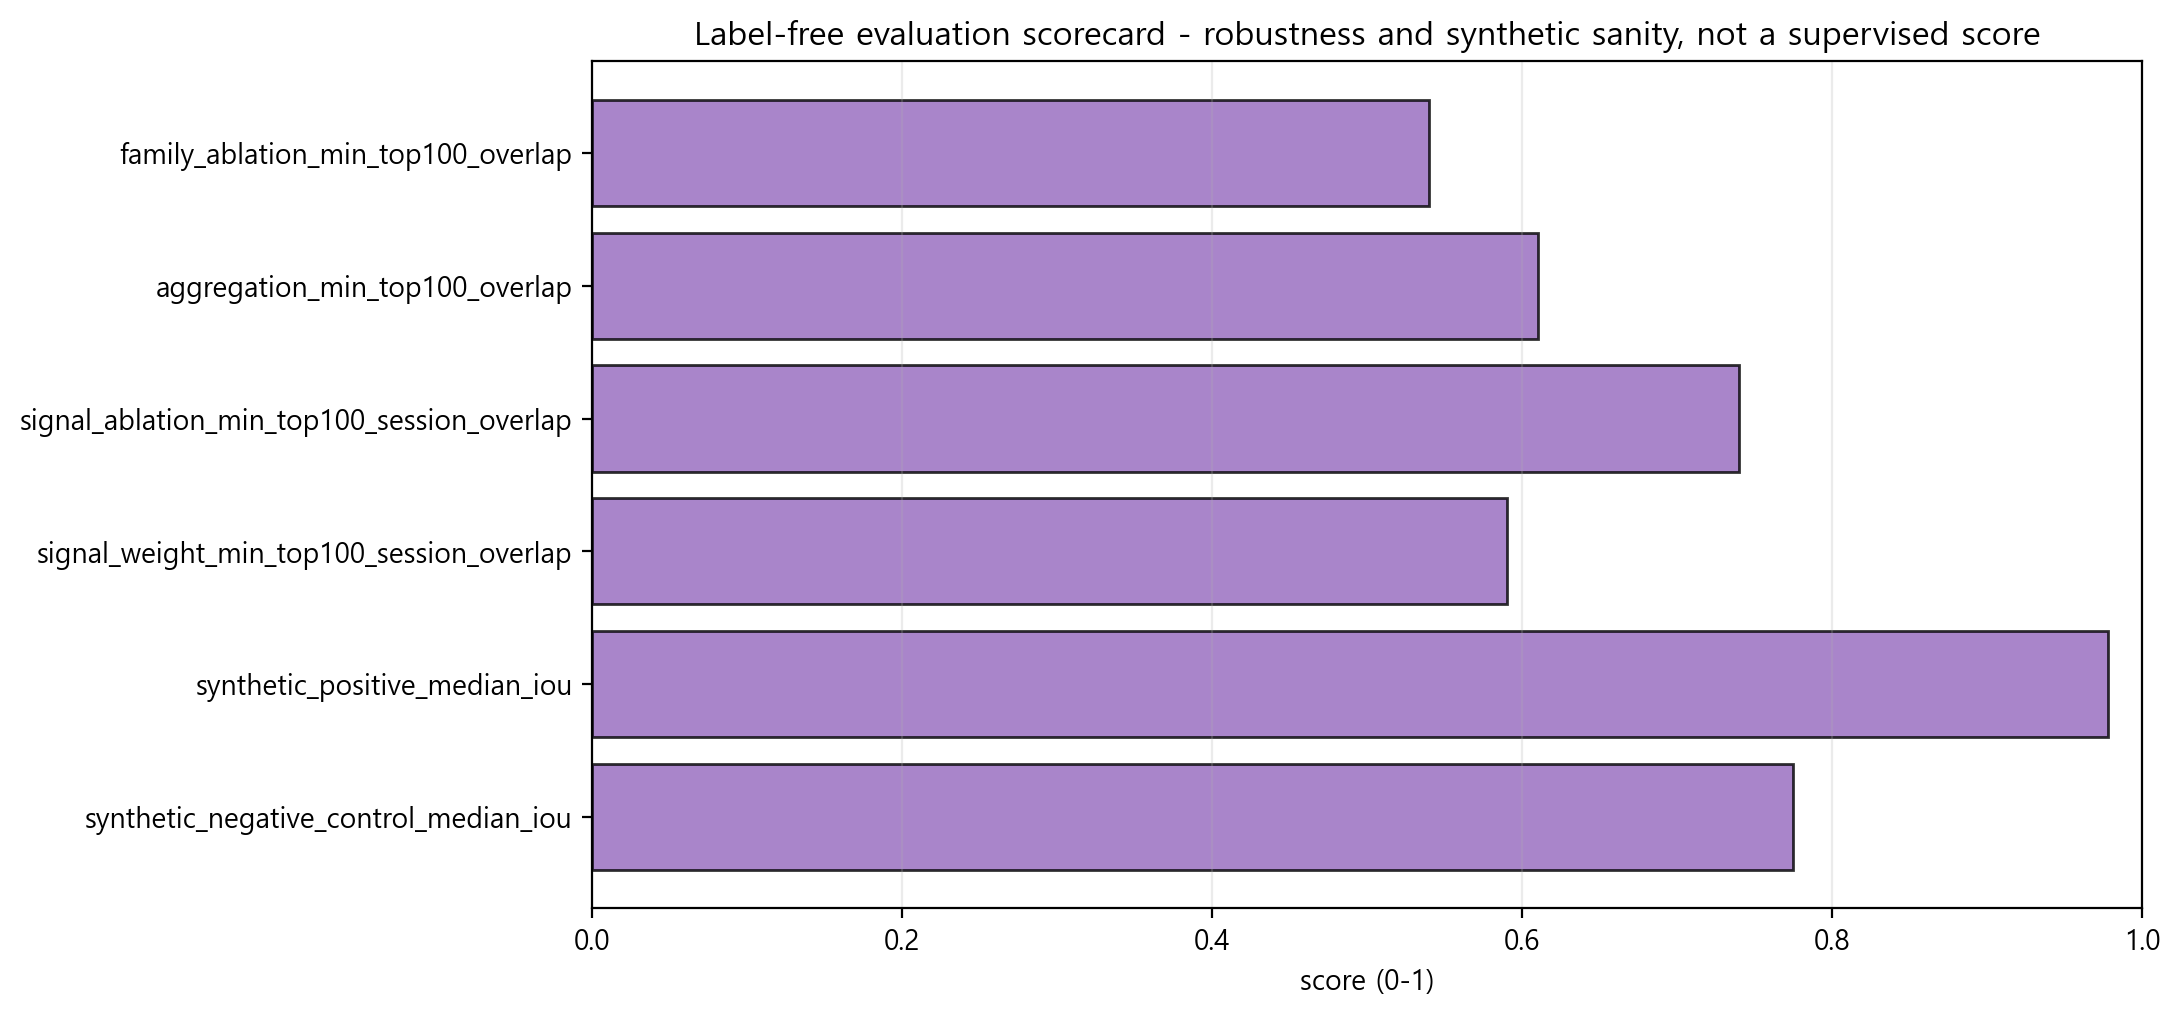
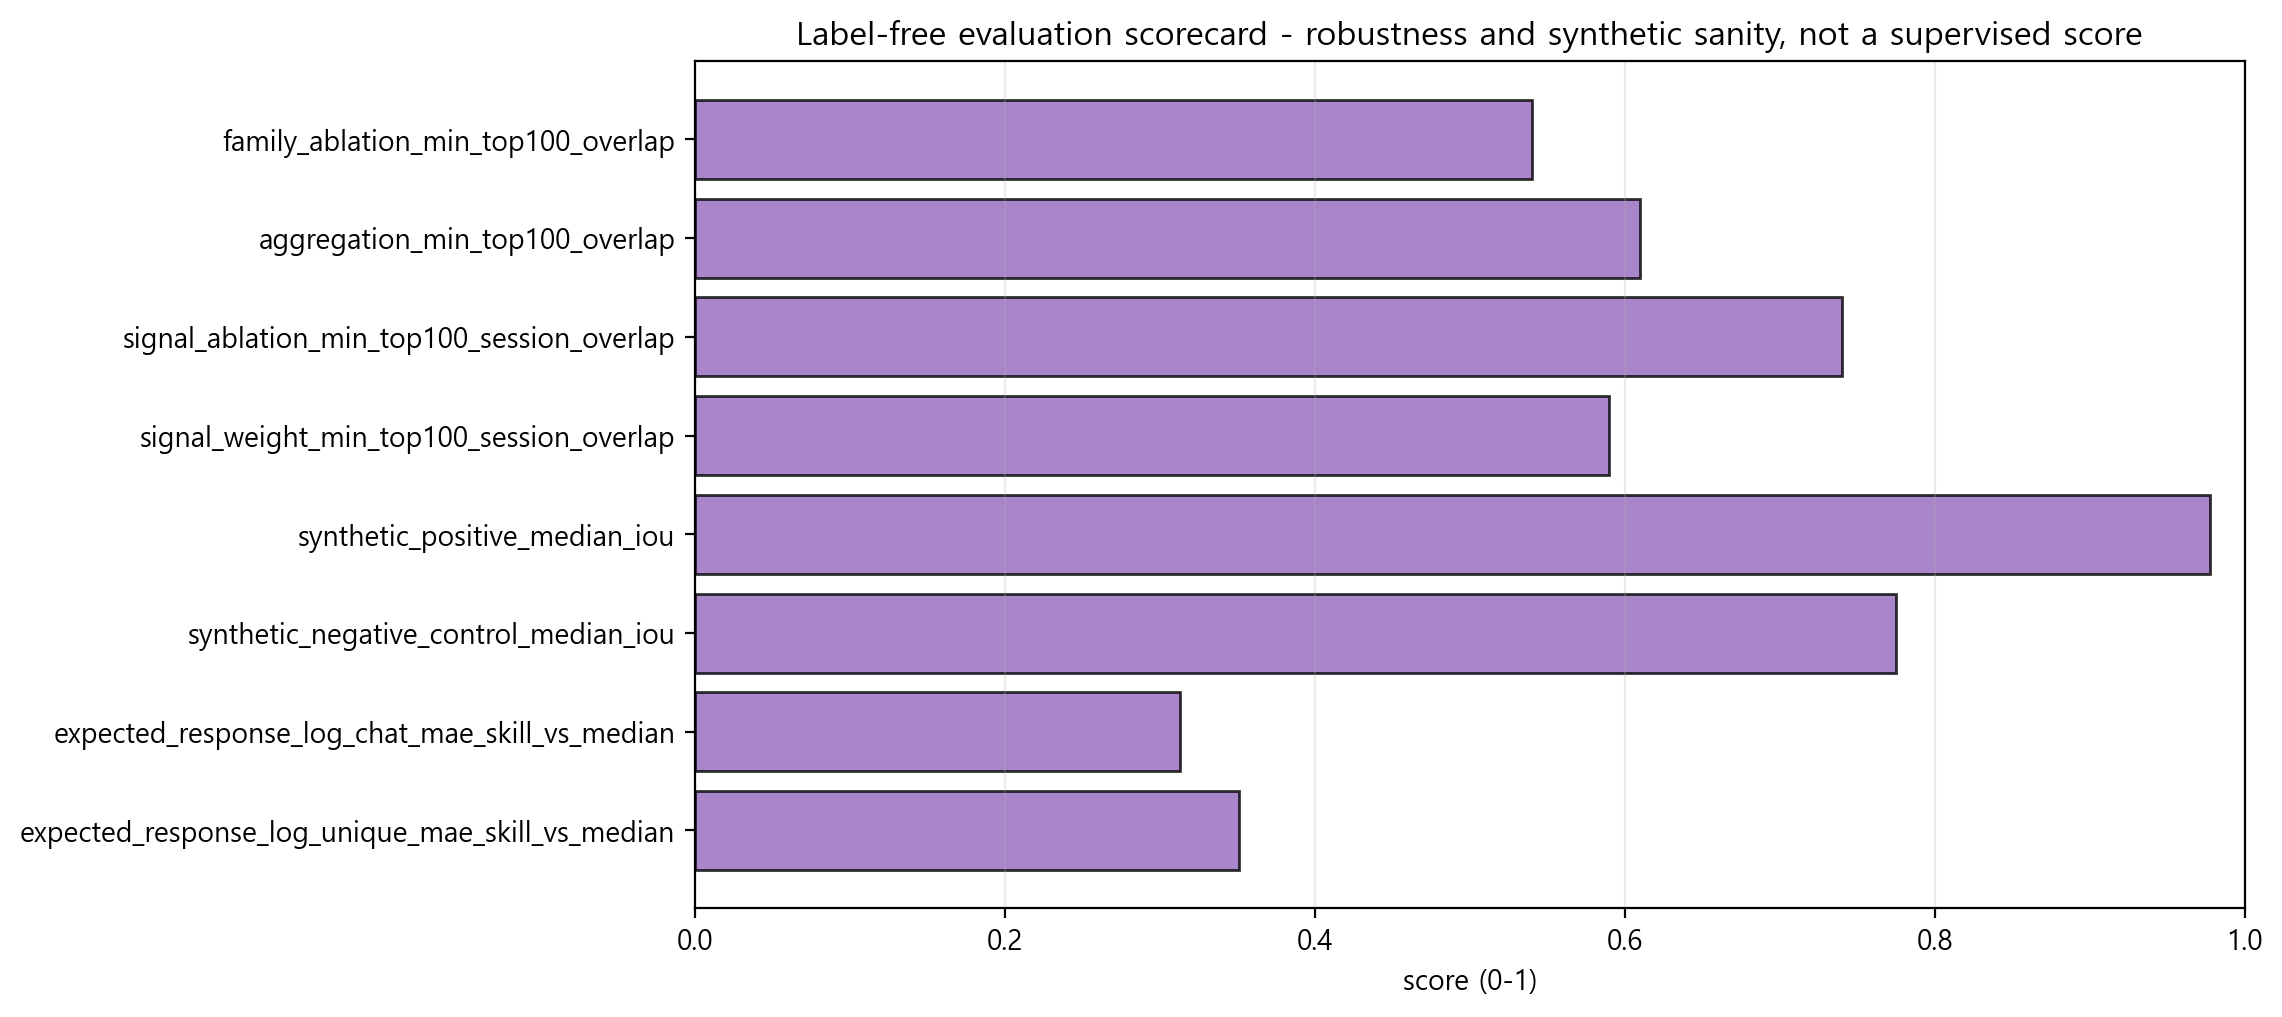
revised

diff --git a/dm_pipe_final/src/plots.py b/dm_pipe_final/src/plots.py
@@ -603,6 +603,57 @@ def _plot_pipe(plots):
     _save(fig, plots / "13_m2_pipe.png")
 
 
+def _plot_mc_selection(out, plots):
+    mc = _read(out, "mc_select.csv")
+    if mc.empty or "algorithm" not in mc.columns or "selection_score" not in mc.columns:
+        _blank(plots / "09_mc_selection.png", "mc_select.csv not available\nminute behavior-state model selection")
+        return
+    km = mc[mc["algorithm"].astype(str).str.lower().eq("kmeans")].copy()
+    km["k"] = pd.to_numeric(km["selected_k_num"], errors="coerce")
+    km = km.dropna(subset=["k"]).sort_values("k")
+    if km.empty:
+        _blank(plots / "09_mc_selection.png", "no KMeans candidates in mc_select.csv")
+        return
+    fig, ax = plt.subplots(figsize=(8.5, 4.5))
+    ax.plot(km["k"], pd.to_numeric(km["selection_score"], errors="coerce"), "-o", color="#4C78A8", label="selection_score (composite)")
+    ax.plot(km["k"], pd.to_numeric(km["silhouette"], errors="coerce"), "-s", color="#F58518", label="silhouette")
+    sel = km[km["selected"].astype(str).str.lower().isin(["true", "1"])]
+    if not sel.empty:
+        ksel = int(sel["k"].iloc[0])
+        ax.axvline(ksel, color="green", ls="--", alpha=0.7, label=f"selected KMeans k={ksel}")
+    ax.set_xlabel("minute KMeans k")
+    ax.set_ylabel("score")
+    ax.set_ylim(0, 1)
+    ax.set_title("09 Minute behavior-state model selection (KMeans)\nGMM/HDBSCAN are structural diagnostics, not label sources")
+    ax.legend(fontsize=8)
+    ax.grid(alpha=0.25)
+    _save(fig, plots / "09_mc_selection.png")
+
+
+def _plot_base_importance(out, plots):
+    imp = _read(out, "base_importance.csv")
+    if imp.empty or "target" not in imp.columns:
+        _blank(plots / "14_base_importance.png", "base_importance.csv not available\nexpected-response feature importance")
+        return
+    fig, axes = plt.subplots(1, 2, figsize=(11, 4.2), sharex=True)
+    for ax, tgt in zip(axes, ["log_chat", "log_unique"]):
+        d = imp[imp["target"].astype(str).eq(tgt)].copy()
+        d = d.sort_values("importance_mae_increase")
+        ax.barh(
+            d["feature"].astype(str),
+            pd.to_numeric(d["importance_mae_increase"], errors="coerce"),
+            xerr=pd.to_numeric(d.get("importance_std"), errors="coerce"),
+            color="#4C78A8",
+            edgecolor="black",
+            alpha=0.85,
+        )
+        ax.set_title(f"{tgt} OOF permutation importance")
+        ax.set_xlabel("MAE increase (log space)")
+        ax.grid(axis="x", alpha=0.25)
+    fig.suptitle("14 Expected-response baseline feature importance (review evidence, not probability)", fontsize=13)
+    _save(fig, plots / "14_base_importance.png")
+
+
 def _write_plot_doc(out):
     plots = Path(out) / "plots"
     session = _read(out, "session_summary_processed.csv")
@@ -617,6 +668,8 @@ def _write_plot_doc(out):
         "07_session_cluster_stability.png": "filename retained for backward compatibility; content is minute KMeans behavior-state stability diagnostic from mc_stab.csv ARI/subsample; supervised 성능지표 아님; 정답 라벨/확률 아님",
         "07_ms.png": "Method 2 rule-rank score 분포; 정답 라벨/확률 아님",
         "08_mc.png": "minute KMeans behavior state profile; colorbar is within-feature scaled profile value, not cluster id; 정답 라벨/확률 아님",
+        "09_mc_selection.png": "minute 행동상태 KMeans 모델선택 비교(selection_score/silhouette); GMM/HDBSCAN은 구조 진단용이며 label source 아님; 정답 라벨/확률 아님",
+        "14_base_importance.png": "expected-response GBM의 OOF permutation 변수중요도(log space MAE 증가분); 검토 근거이며 확률 아님",
         "08_cluster_minute.png": "alias/duplicate of 08_mc.png for handoff compatibility; colorbar is within-feature scaled profile value, not cluster id; 정답 라벨/확률 아님",
         "13_m2_pipe.png": "Method 2 pipeline 개요; 정답 라벨/확률 아님",
         "15_null.png": "shuffled null diagnostic; 정답 라벨/확률 아님",
@@ -778,8 +831,10 @@ def make_plots(minute_all, minute_model, session_all, session_model, out):
     _plot_session_cluster_stability(out, plots)
     _plot_ms(out, plots)
     _plot_mc(out, plots)
+    _plot_mc_selection(out, plots)
     _plot_sens(out, plots)
     _plot_ep(out, plots)
     _plot_rank(out, plots)
     _plot_pipe(plots)
+    _plot_base_importance(out, plots)
     _write_plot_doc(out)

diff --git a/dm_pipe_final/src/m2_baseline.py b/dm_pipe_final/src/m2_baseline.py
@@ -29,6 +29,16 @@ IMPORTANCE_COLS = [
     "note",
 ]
 
+BASE_FIT_COLS = [
+    "target",
+    "n",
+    "oof_mae",
+    "oof_pinball_q50",
+    "mae_global_median_baseline",
+    "mae_skill_vs_median",
+    "note",
+]
+
 
 def _write_csv(df, path, columns=None):
     path = Path(path)
@@ -154,6 +164,34 @@ def _agreement(model_deficit, bin_deficit):
     return (model.gt(0) & rule.gt(0)).astype(int)
 
 
+def _fit_metrics(actual, pred, target):
+    """Held-out OOF fit of the conditional median baseline vs an unconditional
+    global-median baseline, so accuracy-free quality is still quantified."""
+    a = pd.to_numeric(actual, errors="coerce")
+    p = pd.to_numeric(pred, errors="coerce")
+    mask = a.notna() & p.notna()
+    a, p = a[mask], p[mask]
+    n = int(len(a))
+    if n == 0:
+        return {"target": target, "n": 0, "oof_mae": np.nan, "oof_pinball_q50": np.nan,
+                "mae_global_median_baseline": np.nan, "mae_skill_vs_median": np.nan,
+                "note": "no rows with both actual and prediction"}
+    err = (a - p).abs()
+    mae = float(err.mean())
+    median = float(a.median())
+    mae_median = float((a - median).abs().mean())
+    skill = float(1.0 - mae / mae_median) if mae_median > 0 else np.nan
+    return {
+        "target": target,
+        "n": n,
+        "oof_mae": mae,
+        "oof_pinball_q50": float(0.5 * mae),
+        "mae_global_median_baseline": mae_median,
+        "mae_skill_vs_median": skill,
+        "note": "held-out OOF error in log space; skill = error reduction vs unconditional global median; not a classifier",
+    }
+
+
 def _feature_groups(columns):
     """Group one-hot category dummies into a single 'category' feature for readable importance."""
     groups = {}
@@ -243,6 +281,12 @@ def build_expected_response(minute_df, out, cfg=None):
     result["baseline_agree_chat"] = _agreement(result["model_chat_deficit"], result.get("chat_deficit"))
     result["baseline_agree_unique"] = _agreement(result["model_unique_deficit"], result.get("unique_deficit"))
 
+    fit = pd.DataFrame([
+        _fit_metrics(actual_chat, result["base_log_chat_q50"], "log_chat"),
+        _fit_metrics(actual_unique, result["base_log_unique_q50"], "log_unique"),
+    ])
+    _write_csv(fit, out / "base_fit.csv", BASE_FIT_COLS)
+
     importance_note = "importance는 비활성화되어 계산하지 않았다."
     base_cfg = (cfg or {}).get("m2_expected_response", {})
     if bool(base_cfg.get("importance", True)):
@@ -264,6 +308,7 @@ def build_expected_response(minute_df, out, cfg=None):
         f"unique fit: {unique_note}.",
         f"사용 feature: {', '.join(x.columns[:80])}" + (" ..." if len(x.columns) > 80 else ""),
         "출력: base_log_chat_q50, base_log_unique_q50, model_chat_deficit, model_unique_deficit.",
+        "base_fit.csv: held-out OOF MAE/pinball(q0.5)와 무조건부 global median 대비 skill을 기록한다. 라벨 없는 적합도 정량값이다.",
         importance_note,
         "한계: 실제 정답 라벨이 없는 baseline이다. deficit은 수동 검토 근거이며 확률이 아니다.",
     ]

diff --git a/dm_pipe_final/src/eval_robustness.py b/dm_pipe_final/src/eval_robustness.py
@@ -1418,6 +1418,7 @@ def write_eval_scorecard(out, eval_dir, cfg):
     weights = _read_csv(eval_dir / "minute_signal" / "signal_weight_sensitivity_summary.csv")
     scenario = _read_csv(eval_dir / "synthetic" / "synthetic_recovery_by_scenario.csv")
     importance = _read_csv(out / "base_importance.csv")
+    fit = _read_csv(out / "base_fit.csv")
 
     def _min(df, col):
         return float(pd.to_numeric(df.get(col), errors="coerce").min()) if not df.empty else np.nan
@@ -1438,6 +1439,12 @@ def write_eval_scorecard(out, eval_dir, cfg):
         neg_iou = float(pd.to_numeric(control.get("median_iou"), errors="coerce").median()) if not control.empty else np.nan
     rows.append({"metric": "synthetic_positive_median_iou", "value": pos_iou, "scale": "0-1 higher localizes injected interval", "what_it_checks": "주입한 연속 mismatch 구간을 회수하는가", "note": NOTE_NOT_REAL})
     rows.append({"metric": "synthetic_negative_control_median_iou", "value": neg_iou, "scale": "0-1 lower means fewer false intervals", "what_it_checks": "간헐적 zero 대조군에서 거짓 구간을 덜 잡는가", "note": "negative-control-like diagnostic"})
+
+    if not fit.empty and "target" in fit.columns:
+        for tgt in ["log_chat", "log_unique"]:
+            hit = fit.loc[fit["target"].astype(str).eq(tgt)]
+            if not hit.empty:
+                rows.append({"metric": f"expected_response_{tgt}_mae_skill_vs_median", "value": float(pd.to_numeric(hit["mae_skill_vs_median"], errors="coerce").iloc[0]), "scale": "0-1 higher beats unconditional median", "what_it_checks": f"{tgt} 조건부 baseline의 held-out 오차가 무조건부 median보다 얼마나 낮은가", "note": "OOF fit skill, not a classifier"})
 
     if not importance.empty and "target" in importance.columns:
         chat_imp = importance.loc[importance["target"].astype(str).eq("log_chat")].copy()

diff --git a/dm_pipe_final/out/revision_checklist.md b/dm_pipe_final/out/revision_checklist.md
@@ -39,7 +39,7 @@
 - [PASS] qc_zero_session_review qc_reason avoids forbidden certainty terms: qc_reason is manual-QC wording only
 - [PASS] legacy episode grid disabled outputs absent: m2_ep.csv=False, m2_sens.csv=False, m2_candidates.csv=False, m2_eval.csv=False, m2_stability.csv=False
 - [PASS] 07 stability plot uses mc_stab: minute KMeans behavior-state stability diagnostic; mc_stab.csv 및 backward-compatible plot filename 존재
-- [PASS] plot_manifest matches actual plots: actual=['plots/01_data_quality.png', 'plots/02_dist_time.png', 'plots/03_view_chat.png', 'plots/04_cluster_session.png', 'plots/05_session_k_selection.png', 'plots/06_session_cluster_profile.png', 'plots/07_ms.png', 'plots/07_session_cluster_stability.png', 'plots/08_cluster_minute.png', 'plots/08_mc.png', 'plots/13_m2_pipe.png', 'plots/15_null.png', 'plots/16_state.png', 'plots/18_review.png', 'plots/19_reason.png', 'plots/20_rra.png', 'plots/21_interval.png', 'plots/22_family_ablation_heatmap.png', 'plots/23_aggregation_sensitivity.png', 'plots/24_evidence_balance.png', 'plots/25_minute_signal_sensitivity.png', 'plots/26_synthetic_interval_recovery.png', 'plots/27_eval_scorecard.png', 'plots/28_top_session_profile.png']; manifest=['plots/01_data_quality.png', 'plots/02_dist_time.png', 'plots/03_view_chat.png', 'plots/04_cluster_session.png', 'plots/05_session_k_selection.png', 'plots/06_session_cluster_profile.png', 'plots/07_ms.png', 'plots/07_session_cluster_stability.png', 'plots/08_cluster_minute.png', 'plots/08_mc.png', 'plots/13_m2_pipe.png', 'plots/15_null.png', 'plots/16_state.png', 'plots/18_review.png', 'plots/19_reason.png', 'plots/20_rra.png', 'plots/21_interval.png', 'plots/22_family_ablation_heatmap.png', 'plots/23_aggregation_sensitivity.png', 'plots/24_evidence_balance.png', 'plots/25_minute_signal_sensitivity.png', 'plots/26_synthetic_interval_recovery.png', 'plots/27_eval_scorecard.png', 'plots/28_top_session_profile.png']; stale_plot_mentions=[]
+- [PASS] plot_manifest matches actual plots: actual=['plots/01_data_quality.png', 'plots/02_dist_time.png', 'plots/03_view_chat.png', 'plots/04_cluster_session.png', 'plots/05_session_k_selection.png', 'plots/06_session_cluster_profile.png', 'plots/07_ms.png', 'plots/07_session_cluster_stability.png', 'plots/08_cluster_minute.png', 'plots/08_mc.png', 'plots/09_mc_selection.png', 'plots/13_m2_pipe.png', 'plots/14_base_importance.png', 'plots/15_null.png', 'plots/16_state.png', 'plots/18_review.png', 'plots/19_reason.png', 'plots/20_rra.png', 'plots/21_interval.png', 'plots/22_family_ablation_heatmap.png', 'plots/23_aggregation_sensitivity.png', 'plots/24_evidence_balance.png', 'plots/25_minute_signal_sensitivity.png', 'plots/26_synthetic_interval_recovery.png', 'plots/27_eval_scorecard.png', 'plots/28_top_session_profile.png']; manifest=['plots/01_data_quality.png', 'plots/02_dist_time.png', 'plots/03_view_chat.png', 'plots/04_cluster_session.png', 'plots/05_session_k_selection.png', 'plots/06_session_cluster_profile.png', 'plots/07_ms.png', 'plots/07_session_cluster_stability.png', 'plots/08_cluster_minute.png', 'plots/08_mc.png', 'plots/09_mc_selection.png', 'plots/13_m2_pipe.png', 'plots/14_base_importance.png', 'plots/15_null.png', 'plots/16_state.png', 'plots/18_review.png', 'plots/19_reason.png', 'plots/20_rra.png', 'plots/21_interval.png', 'plots/22_family_ablation_heatmap.png', 'plots/23_aggregation_sensitivity.png', 'plots/24_evidence_balance.png', 'plots/25_minute_signal_sensitivity.png', 'plots/26_synthetic_interval_recovery.png', 'plots/27_eval_scorecard.png', 'plots/28_top_session_profile.png']; stale_plot_mentions=[]
 - [PASS] plot_audit exists: 
 - [PASS] 04_cluster_session uses discrete legend for cluster_number: cluster_count=2; legend_count=2
 - [PASS] 04_cluster_session has no cluster_number colorbar: 
@@ -55,7 +55,7 @@
 - [PASS] method_registry exists/status: hangul=745
 - [PASS] cluster_number leakage warning: X_core_cols.txt warning 확인
 - [PASS] X_no_leak excludes cluster_number: cluster_number 안전 feature처럼 기재되지 않음
-- [PASS] Korean docs hangul count: session_cluster.txt=667; method_registry.md=745; m2_pipeline.md=210; m2_model_notes.md=137; m2_eval_plan.md=129; parameter_rationale.md=33; base_pred_info.txt=421; interval_anomaly.txt=104; load_policy.txt=115; plot_guide.txt=411
+- [PASS] Korean docs hangul count: session_cluster.txt=667; method_registry.md=745; m2_pipeline.md=210; m2_model_notes.md=137; m2_eval_plan.md=129; parameter_rationale.md=33; base_pred_info.txt=445; interval_anomaly.txt=104; load_policy.txt=115; plot_guide.txt=458
 - [PASS] handoff README/MANIFEST file list consistency: missing=[]; unexpected=[]; stale_mentions=[]
 - [PASS] handoff banned claim phrases absent: found=[]
 - [PASS] zip validation deferred: pre-zip phase